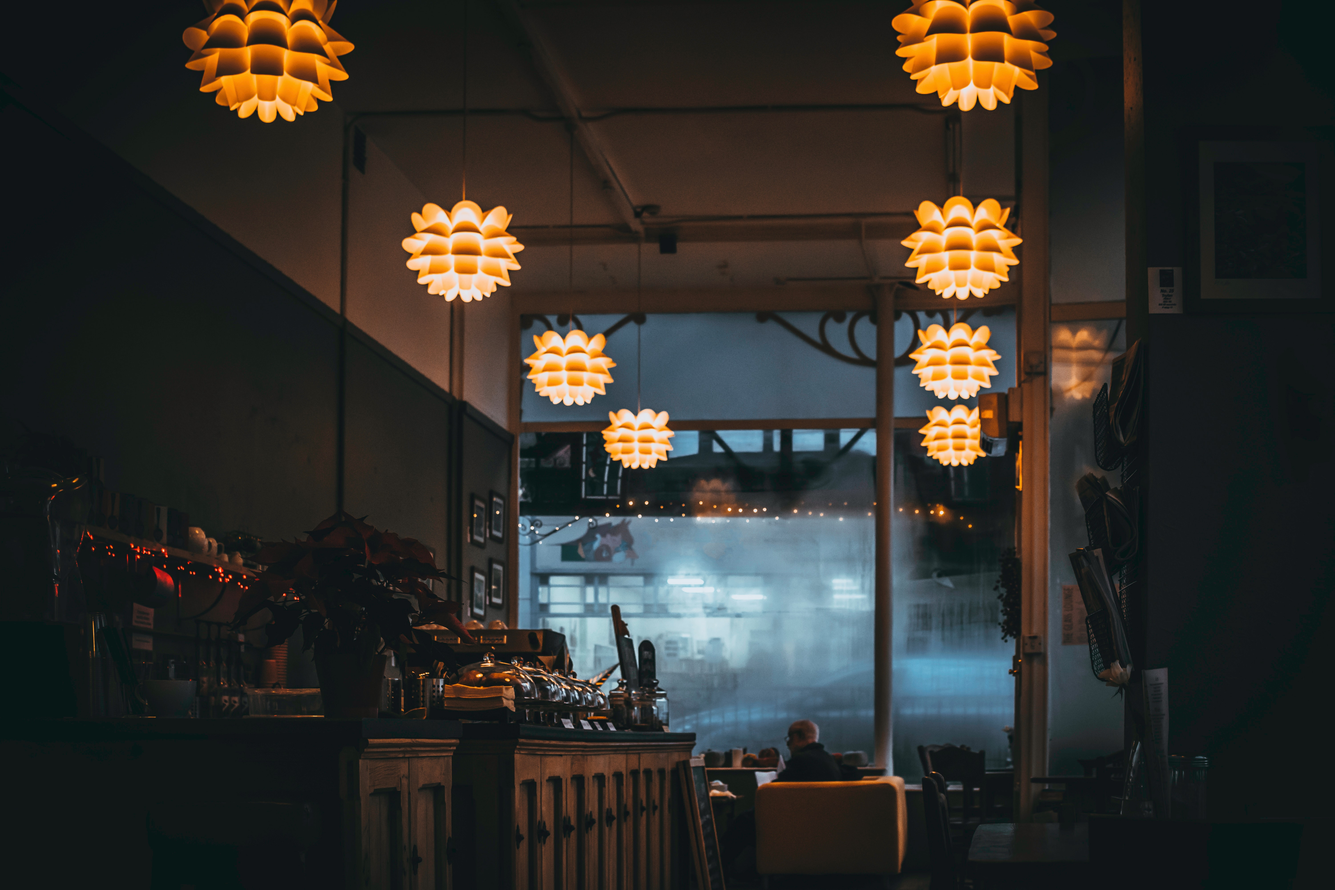
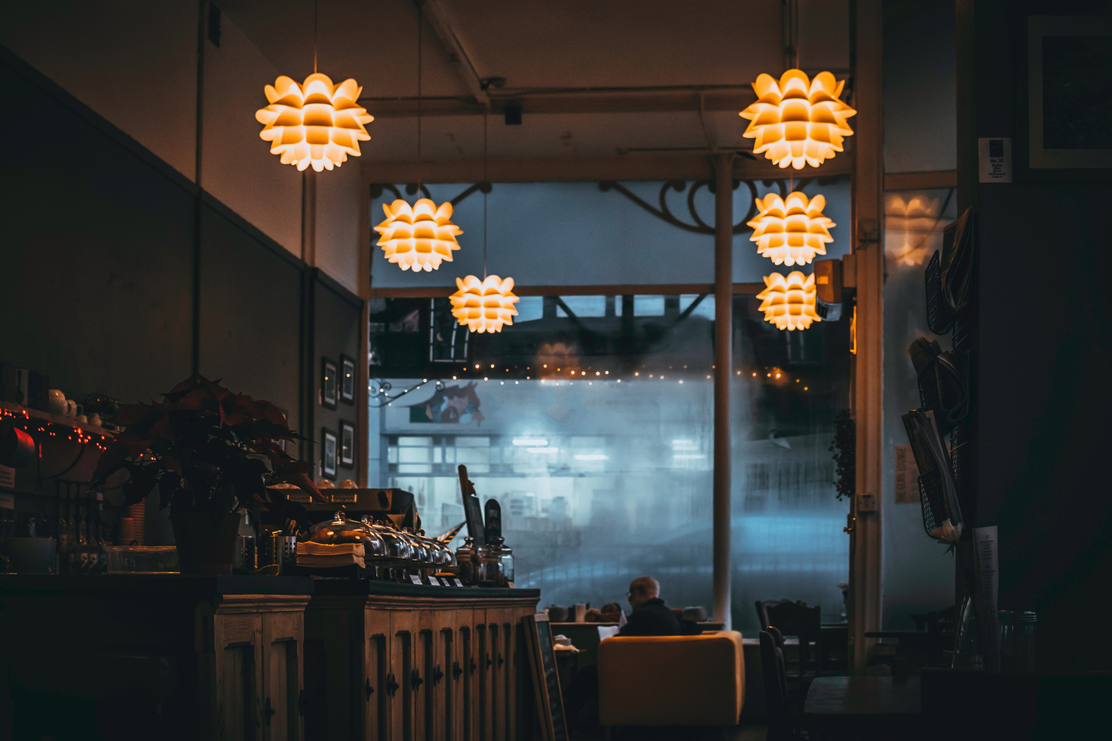
Update images to static links and style index page

diff --git a/templates/base.html b/templates/base.html
@@ -8,12 +8,14 @@
     <meta name="viewport" content="width=device-width, initial-scale=1">
     <link href="https://cdn.jsdelivr.net/npm/bootstrap@5.3.1/dist/css/bootstrap.min.css" rel="stylesheet"
         integrity="sha384-4bw+/aepP/YC94hEpVNVgiZdgIC5+VKNBQNGCHeKRQN+PtmoHDEXuppvnDJzQIu9" crossorigin="anonymous">
+    <link rel="prerender" href="{% static 'images/open.jpg' %}">
+    <link rel="prerender" href="{% static 'images/background.jpg' %}">
     <link rel="stylesheet" href="{% static 'css/style.css' %}">
     <link rel="shortcut icon" href="{% static 'images/favicon.png' %}" type="image/x-icon">
     <title>EastSt. Restaurant</title>
 </head>
 
-<body>
+<body background="{% static 'images/background.jpg' %}">
     <!-- Navbar and Main Content -->
     {% block content %}
     {% endblock %}
@@ -30,19 +32,19 @@
                 </div>
                 <div
                     class="col-10 col-sm-6 col-md-4 col-lg-4 d-flex justify-content-sm-end justify-content-md-center align-items-center text-center">
-                    <a class="social-icon" href="https://gmail.com" target="_blank" aria-label="Get in contact via email"><i
-                            class=" fa-solid fa-envelope"></i></a>
-                    <a class="social-icon" href="https://instagram.com" target="_blank" aria-label="Follow us on Instagram"><i
-                            class="fa-brands fa-instagram"></i></a>
-                    <a class="social-icon" href="https://facebook.com" target="_blank" aria-label="Follow us on Facebook"><i
-                            class="fa-brands fa-facebook"></i></a>
+                    <a class="social-icon" href="https://gmail.com" target="_blank"
+                        aria-label="Get in contact via email"><i class=" fa-solid fa-envelope"></i></a>
+                    <a class="social-icon" href="https://instagram.com" target="_blank"
+                        aria-label="Follow us on Instagram"><i class="fa-brands fa-instagram"></i></a>
+                    <a class="social-icon" href="https://facebook.com" target="_blank"
+                        aria-label="Follow us on Facebook"><i class="fa-brands fa-facebook"></i></a>
                 </div>
                 <div class="col-2 col-sm-12 col-md-4 col-lg-4 d-flex justify-content-end align-items-end">
                     <h2>est. 2023</h2>
                 </div>
             </div>
         </div>
-    </footer>    
+    </footer>
 
     <!-- Scripts -->
     <script src="https://cdn.jsdelivr.net/npm/bootstrap@5.3.1/dist/js/bootstrap.bundle.min.js"

diff --git a/templates/index.html b/templates/index.html
@@ -4,10 +4,16 @@
 {% block details %}
 
 <div class="container">
-    <div id="index-splash" class="row justify-content-center text-center text-light overflow-hidden mt-3 pt-3">
-        <div id="index-image" class="d-none d-md-block col-md-6 col-lg-5 gx-0">
+    <div id="index-splash" class="row justify-content-center text-light">
+        <!-- Left panel containg the welcome image -->
+        <div id="image-column"
+            class="d-none d-md-block col-md-6 col-lg-5 col-xl-4 gx-0 bg-dark border border-end-0 border-dark-subtle border-3">
+            <img id="splash-image" class="img-fluid" src="{% static 'images/open.jpg' %}" alt="">
         </div>
-        <div class="col-10 col-md-6 col-lg-5 col-xl-4 bg-dark">
+        <!-- Right panel containg opening times and other text -->
+        <div id="text-column"
+            class="col-9 col-md-6 col-lg-5 col-xl-4 bg-dark text-center border-top border-bottom border-end border-dark-subtle border-3">
+            <!-- NB Do not alter borders to 'border border-start-0' as responsive css will not function correctly -->
             <div class="row">
                 <div class="top-banner col pt-3 pb-2">
                     <h2 class="d-none d-md-block">Restaurant cuisine inspired by the street-styles of Asia</h2>
@@ -26,9 +32,10 @@
                 </div>
             </div>
             <div class="row">
-                <div class="bottom-banner col pt-3 pb-3">
+                <div class="bottom-banner col pt-3">
                     <a class="d-sm d-md-none btn btn-light mx-2 my-1" href="{% url 'menu' %}">Menu</a>
                     <a class="btn btn-light my-1" href="{% url 'account_login' %}">Book Now</a>
+                    <p class="pt-2">or call us on (028) 9527 1012</p>
                 </div>
             </div>
         </div>

diff --git a/static/css/style.css b/static/css/style.css
@@ -27,7 +27,6 @@ body,
 }
 
 body {
-    background: url('https://res.cloudinary.com/dzgxvsnpr/image/upload/v1693042277/static/images/background.30fd0022142d.jpg') center center no-repeat;
     background-size: cover;
     min-height: 100vh;
 }
@@ -71,14 +70,14 @@ body {
 
 /* Home Page */
 #index-splash {
-    margin-top: 1em;
+    margin-top: 1.5em;
     margin-bottom: 10em;
     height: 30em;
 }
 
-#index-image {
-    background: url('../images/open.jpg') center center no-repeat;
-    background-size: cover;
+#splash-image {
+    object-fit: cover;
+    height: 100%;
 }
 
 .top-banner h2 {
@@ -179,6 +178,10 @@ footer p {
 @media only screen and (max-width: 768px) {
     #index-splash {
         height: 26em;
+    }
+
+    #text-column {
+        border-left: 5px solid
     }
 
     .menu-details-left {
